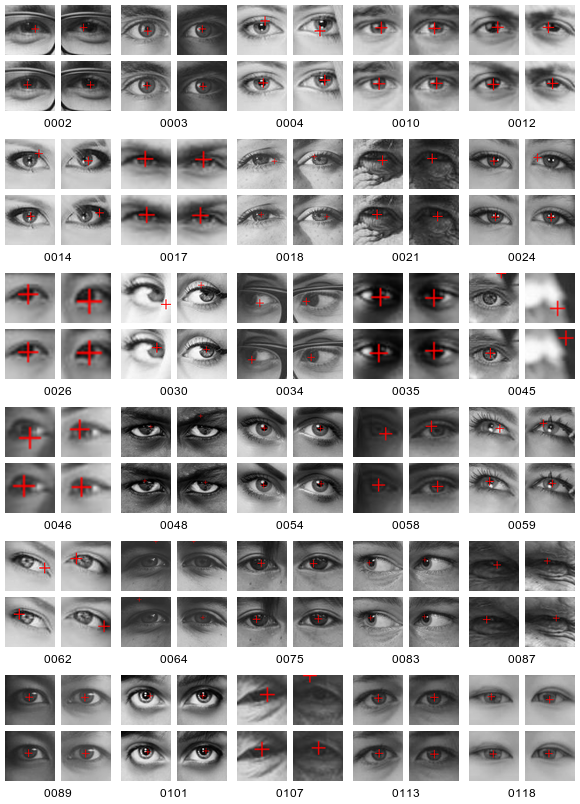
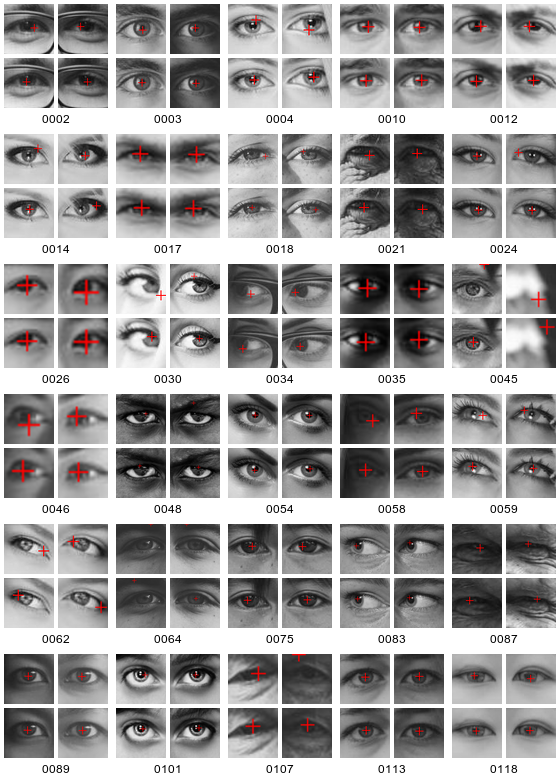
Writing out undefined references and improving some images.

diff --git a/src/appendix.md b/src/appendix.md
@@ -97,7 +97,7 @@ f &= \frac{f_h + f_v}{2} = \frac{\SI{0.011}{\meter} + \SI{0.01}{\meter}}{2} = \S
 
 ![Some example faces from the pexels dataset used to visualize or compare different pipeline steps. The numbers refer to the image names.](pupil_detection_faces.png){ #fig:examplefaces }
 
-![Comparison of eyeLike and \Gaze{}'s pupil detections, showing eyeLike's images above \Gaze{}'s. The original images can be seen in \Cref{fig:examplefaces}. Note that bigger cross markers mean smaller eye image crops.](pupil_detection_comparison.png){ #fig:pupildetectioncomparison }
+![Comparison of eyeLike and \Gaze{}'s pupil detections, showing eyeLike's images above \Gaze{}'s. The original images can be seen in \Cref{fig:examplefaces}. Note that bigger cross markers mean smaller eye image crops.](pupil_detection_comparison.png){ #fig:pupildetectioncomparison height=120% }
 
 ![Comparison of solutions to the PnP problem using EPnP on the left and the iterative Levenberg--Marquardt optimization in OpenCV's solvePnP function. Pexels images 0000, 0025, 0031, 0044; cropped.](solvePnPcomparison.png){ #fig:solvepnpcomparison }
 
